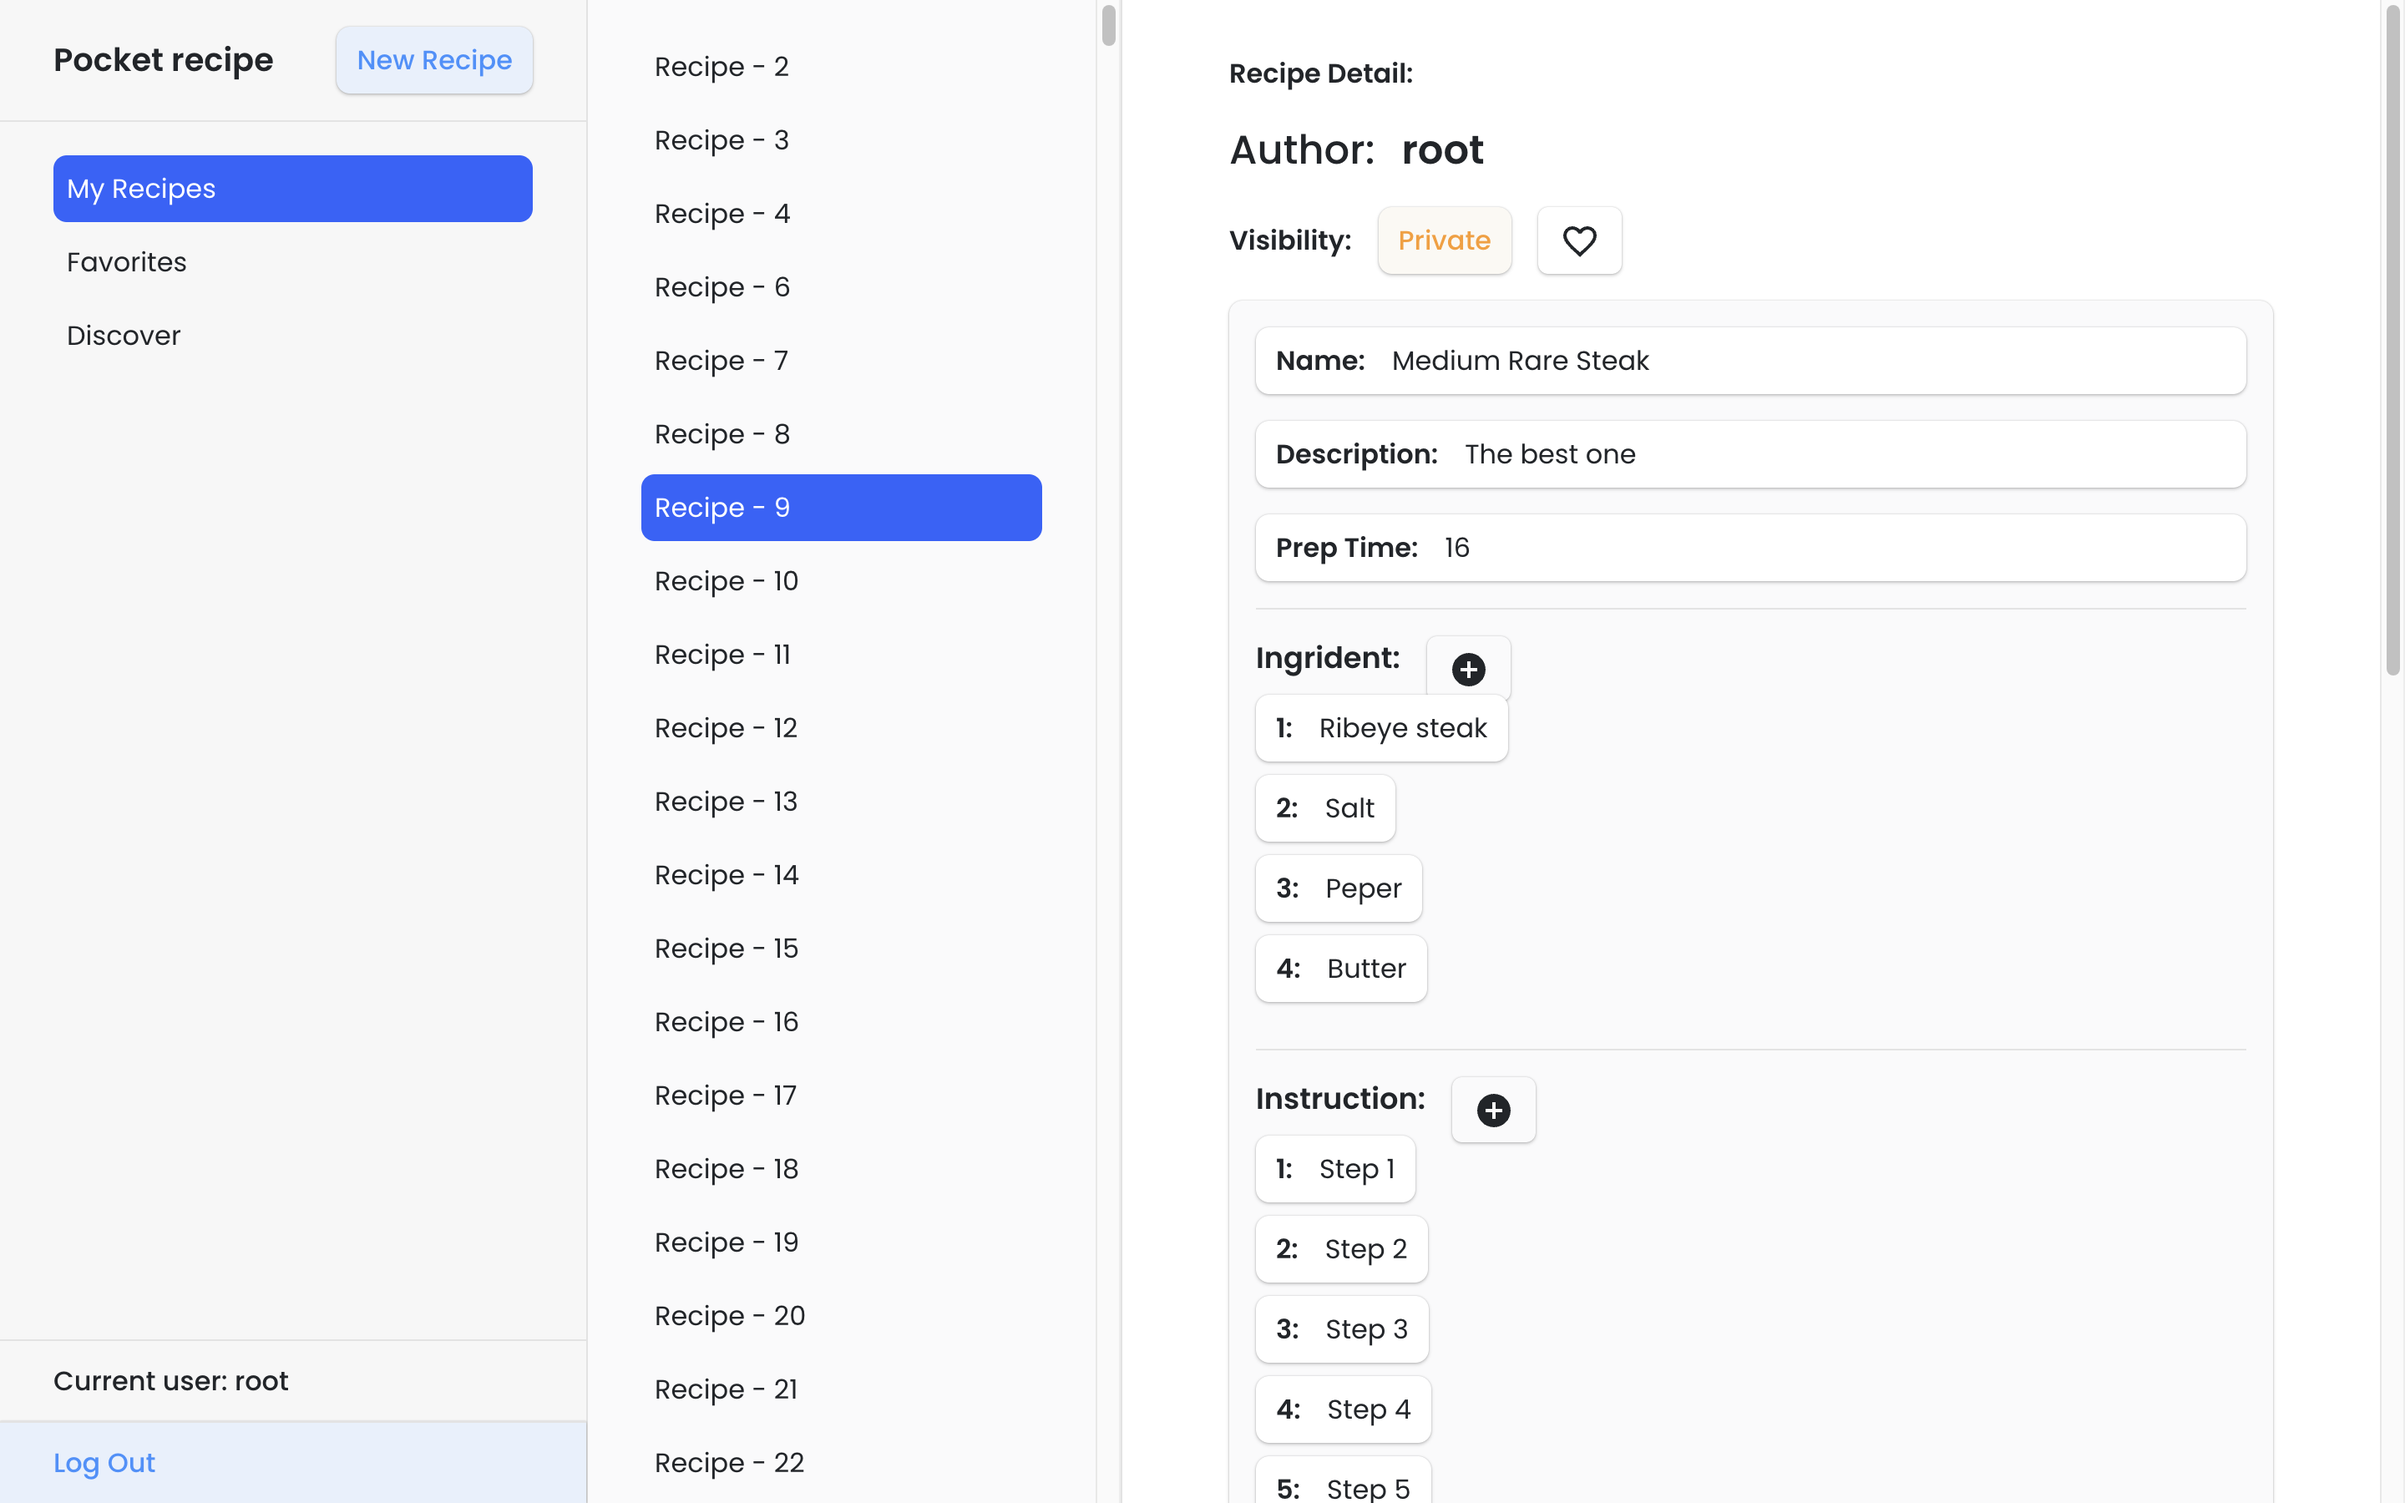
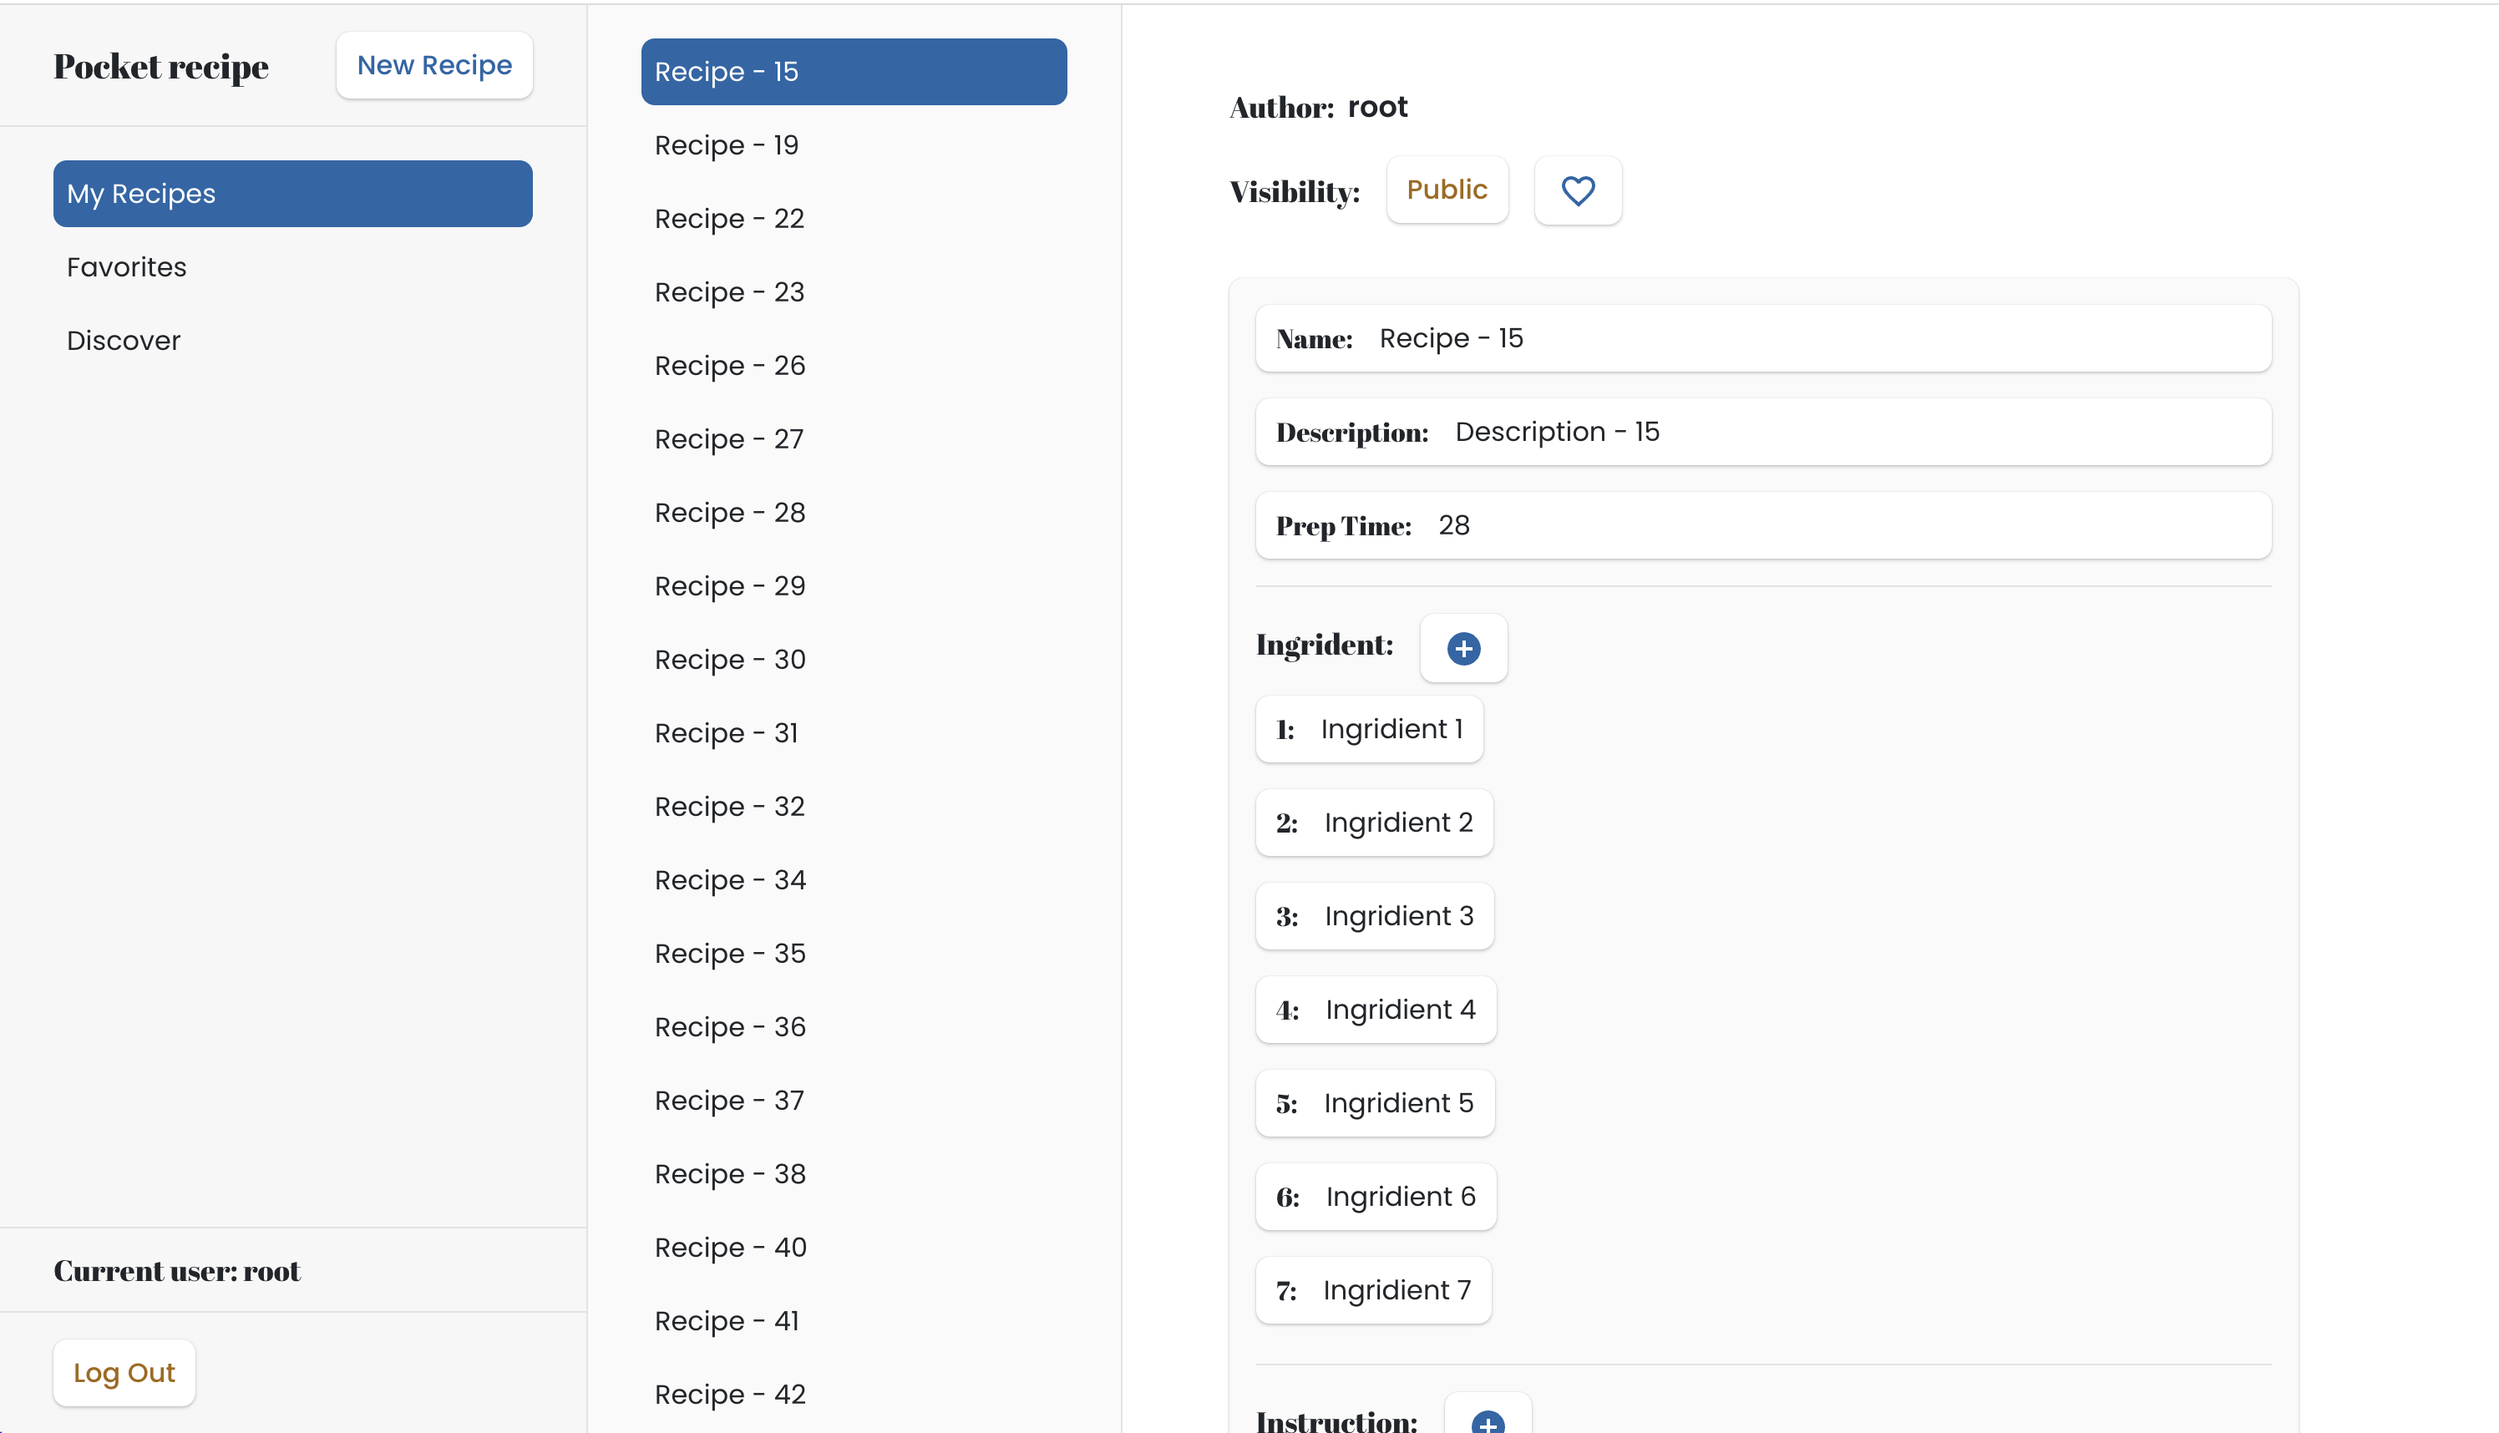
readme

diff --git a/README.md b/README.md
@@ -18,6 +18,19 @@ Design Document [./design-document.md](./design-document.md).
 
 A web application for writing recipes and discovering new recipes posted by others. Users can create a new receipt and edit it later, with information like ingredients, cooking time, cooking instructions, nutrition and uploading beautiful images for the recipe. Users can assign tags for a recipe. Users can mark any recipe as “Favorite” and could be found in the Favorite page. Users can view the latest recipes posted by other users in the Discover page. Users can also choose whether to make a recipe public to other users. All the user data is stored online.
 
+## What's new in Project 4
+
+According to the usability report, we found that user wanted us to add some hint to reaction due to the slow rendering and modify the overall style. Thus, we add loading notification when user changed the setting. Then, we redesigned the whole app with the color palette. It now becomes more vivid. We also debugged and passed the axe test. Last but not least, we supported the accessibility keyboard control. The following section describes the usage.
+
+## Full Keyboard Control
+
+1. Use `Tab` to cycle through the elements.
+2. Use `Enter` to select recipe, edit block, trigger buttons
+3. Use `command + backspace` (for macOS) or `ctrl + backspace`(for Windows) to delete a item of ingridients, intrusctions, etc.
+
+## Color Palette
+![color](./document-images/colorpalette.jpeg)
+
 ## ScreenShots
 
 **Login/Sign Up**
@@ -43,6 +56,9 @@ A web application for writing recipes and discovering new recipes posted by othe
 **Recipe Detail**
 ![detail](./document-images/detail.png)
 
+**Loading**
+![loading](./document-images/loading.png)
+
 ## Instruction on Build
 
 **Development Mode**
@@ -67,11 +83,7 @@ To specify which DB to use, set up a env variable and run like following
 
 `MONGO_URL="mongodb+srv://username:pwd@dburl" yarn run dev`
 
-## Full Keyboard Control
 
-1. Use `Tab` to cycle through the elements.
-2. Use `Enter` to select recipe, edit block, trigger buttons
-3. Use `command + backspace` (for macOS) or `ctrl + backspace`(for Windows) to delete a item of ingridients, intrusctions, etc.
 
 ## MISC
 
